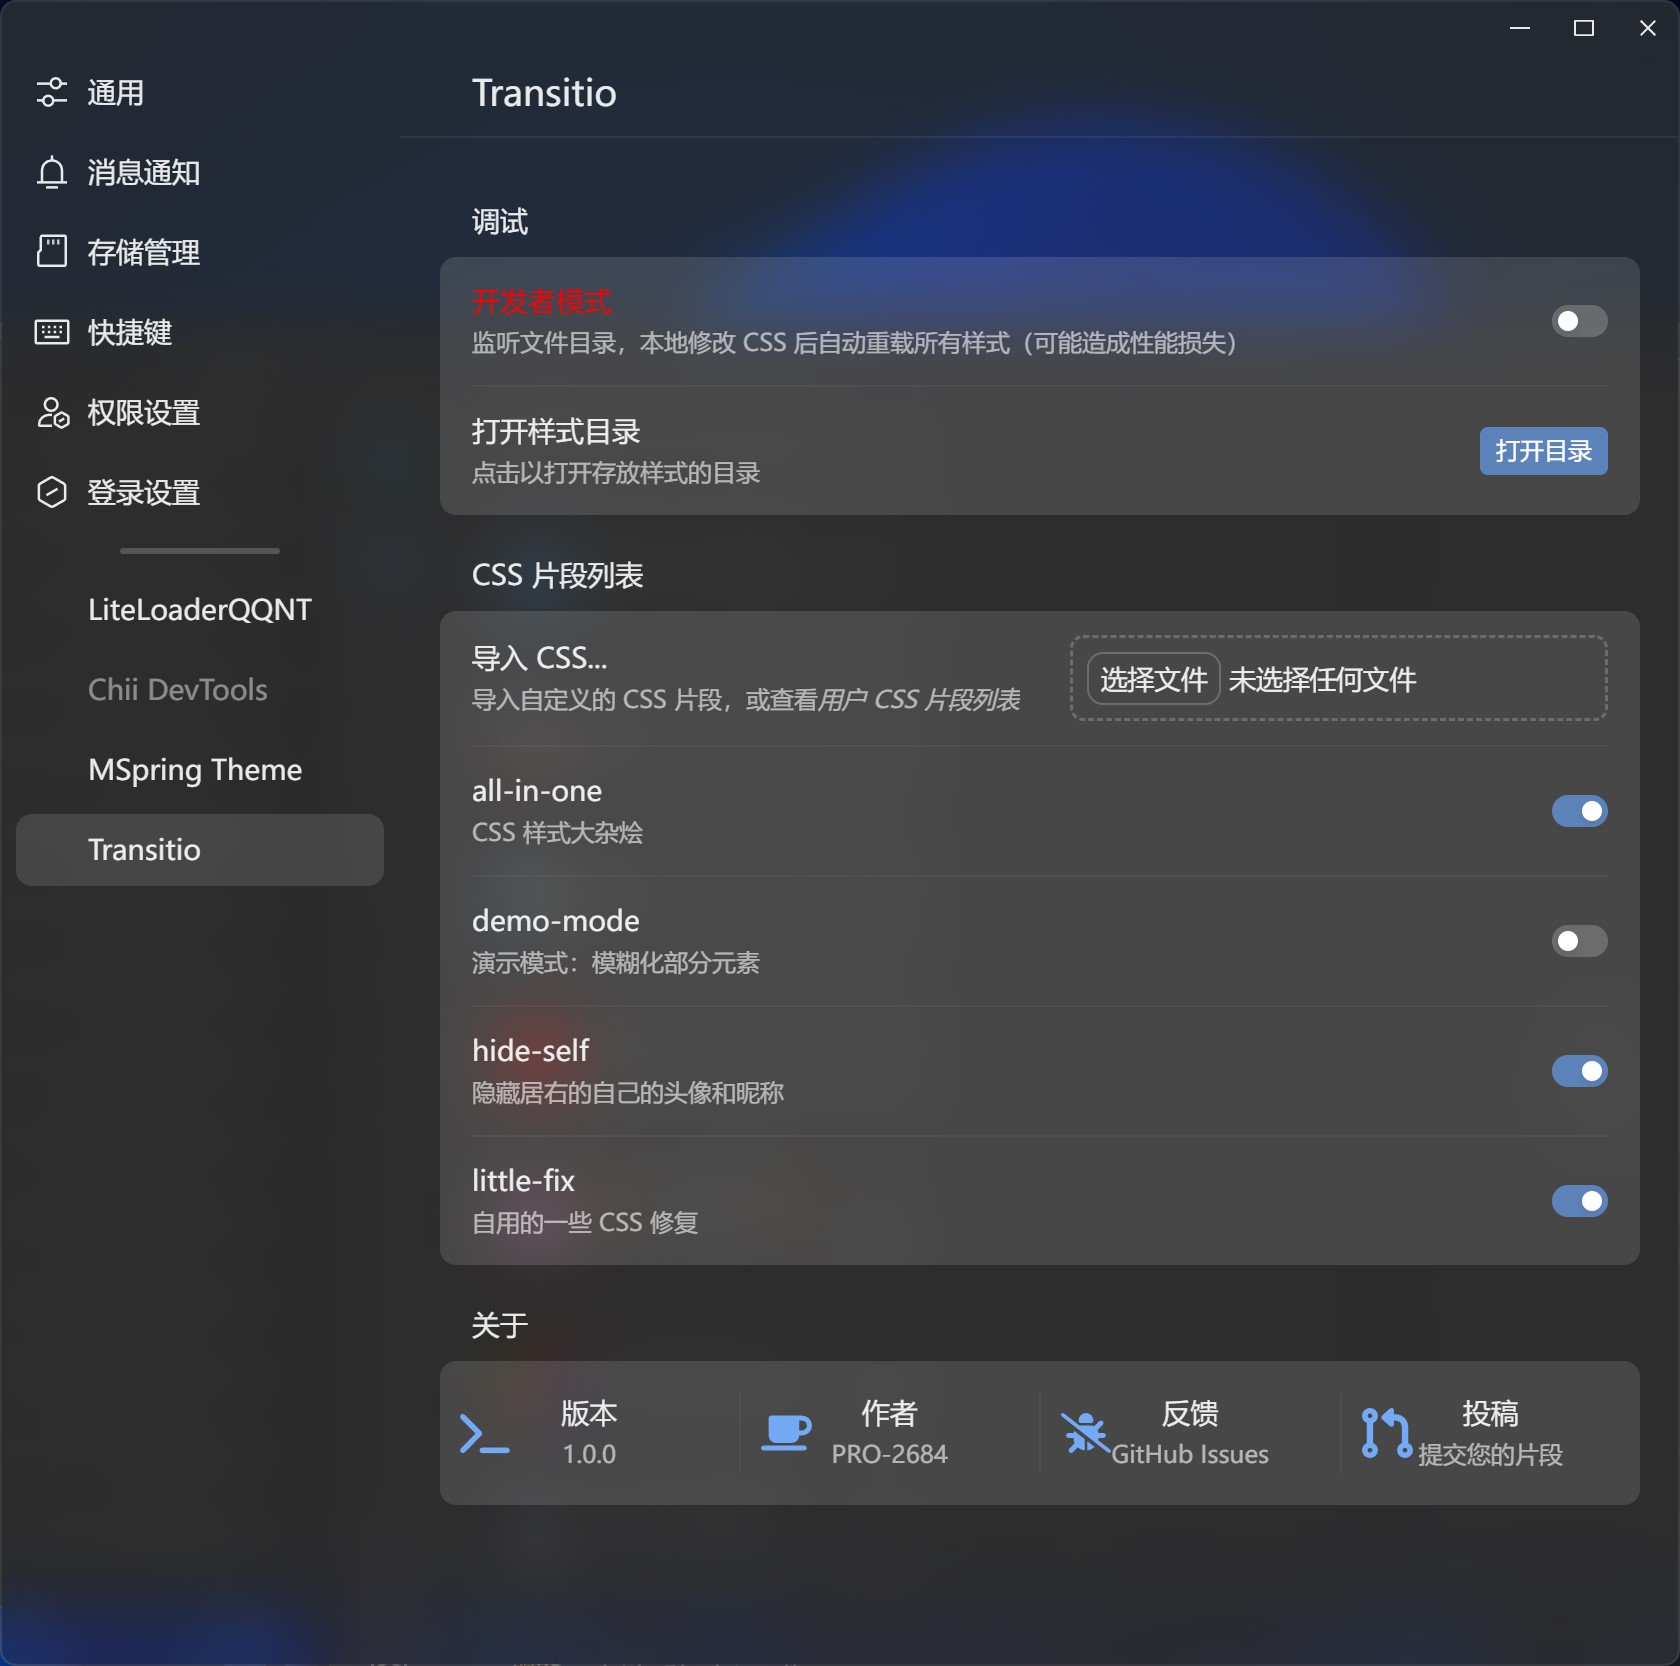
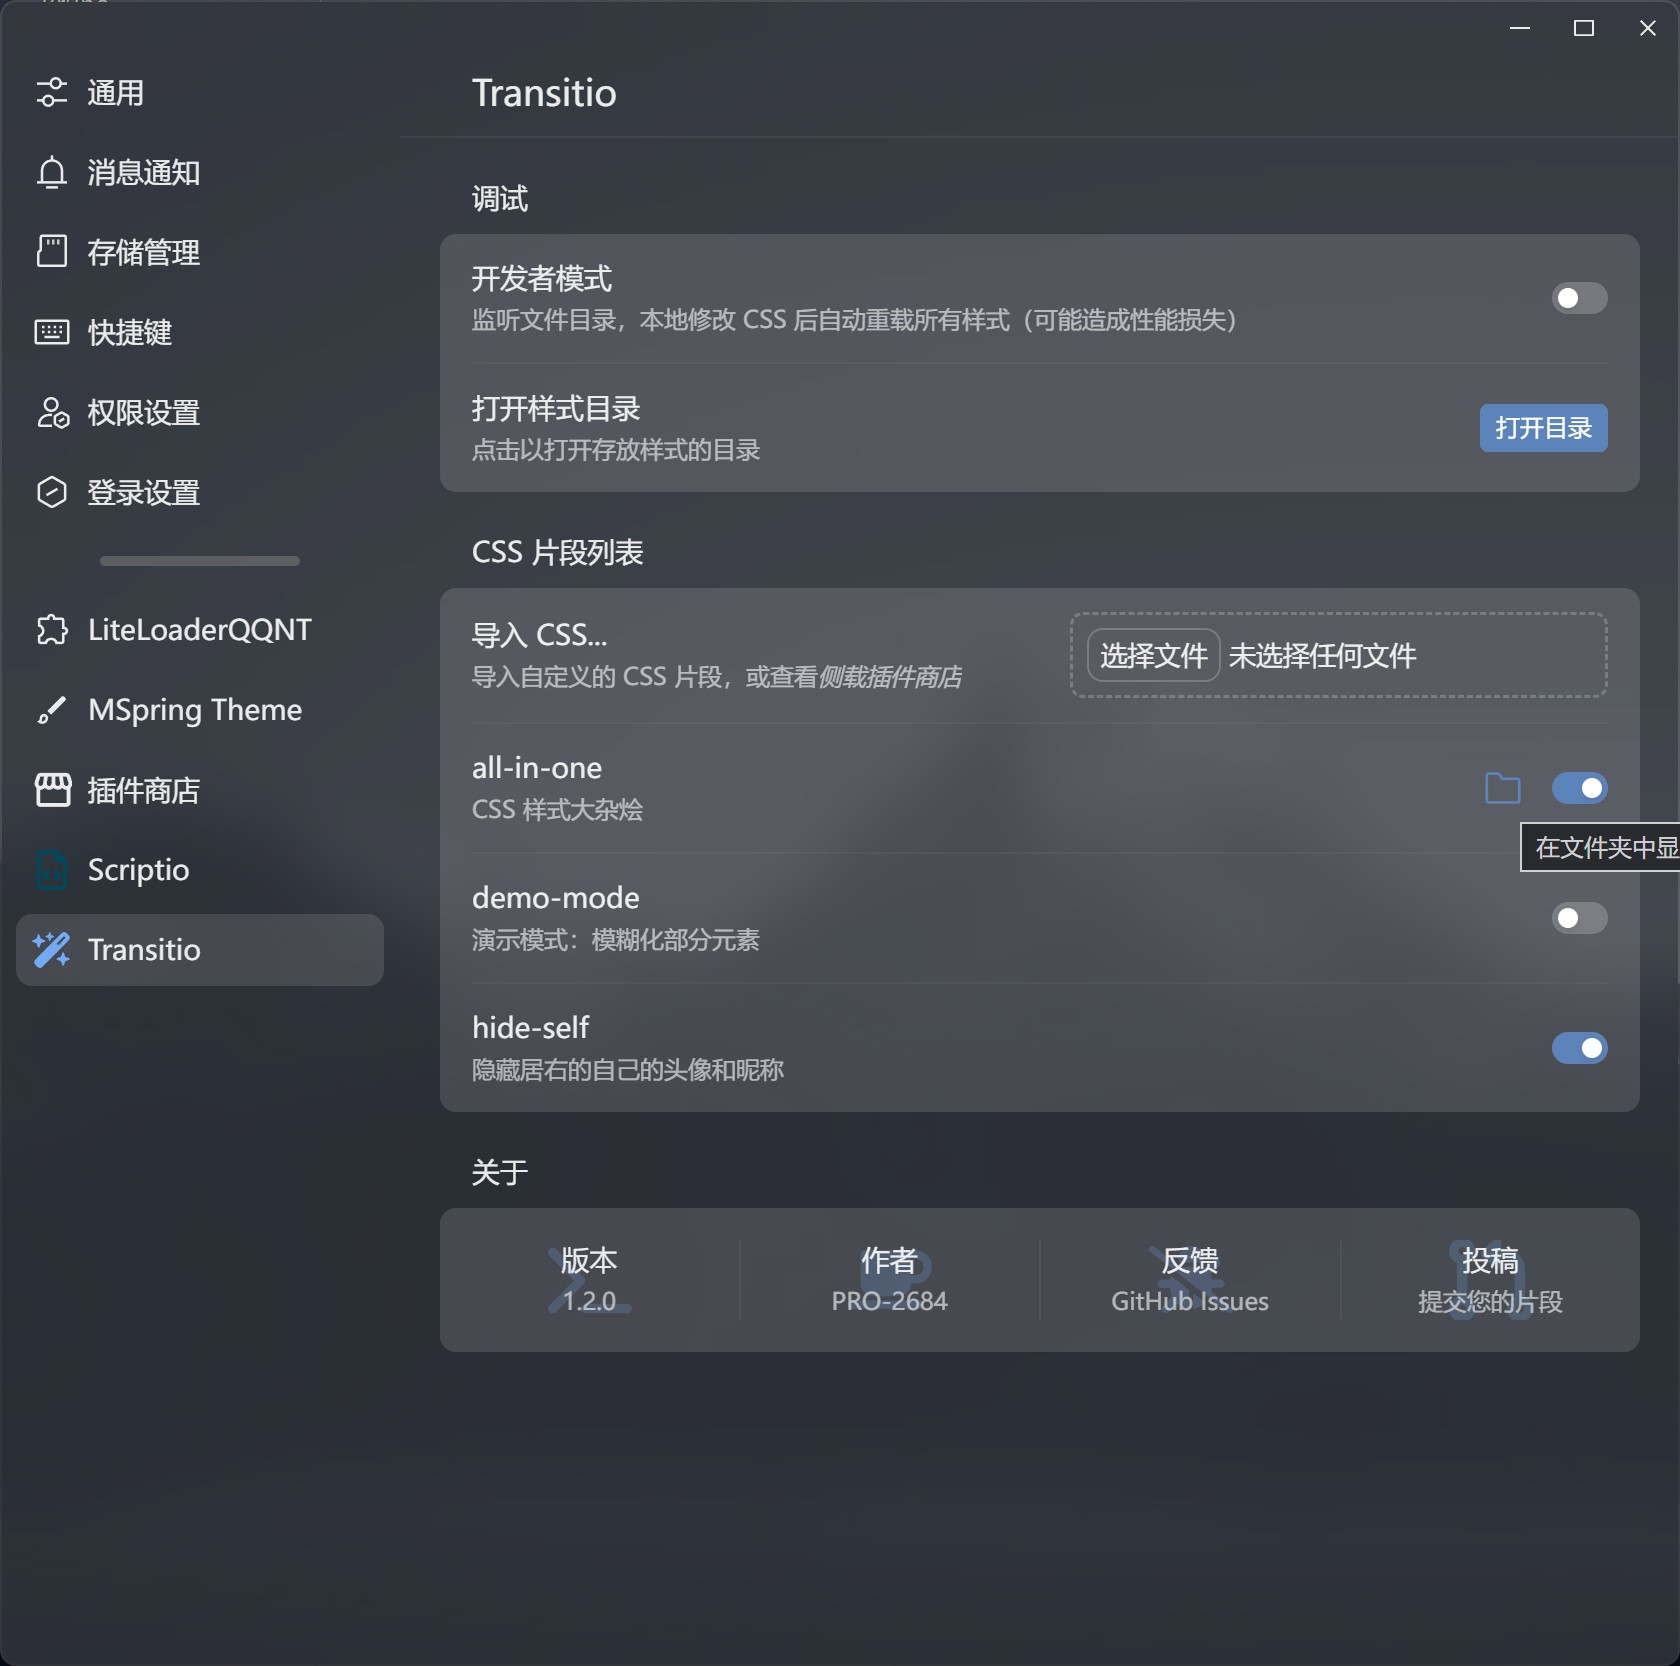
Update README

diff --git a/README.md b/README.md
@@ -58,8 +58,9 @@ plugins (所有的插件目录)
     - CSS 文件首行的注释（若有）会被当作样式说明，显示在设置界面中。
     - 可以在此文件夹下创建多层目录，插件会自动扫描所有 CSS 文件，但是设置界面导入的还是默认直接放在 `data/transitio/styles/` 下（v1.1.0 起）
 - 删除样式：~~点击删除按钮，或~~进入 `data/transitio/styles/` 文件夹删除对应文件。
-    - 鼠标悬停在样式标题上时，会显示其完整的相对路径。
 - 修改样式：修改对应文件即可。
+    - 鼠标悬停在样式标题上时，会显示其绝对路径。
+    - 鼠标悬停在样式上时，会展示 "在文件夹中显示" 按钮。
 - 更新样式：重新导入即可。
 
 ## 💻 调试
